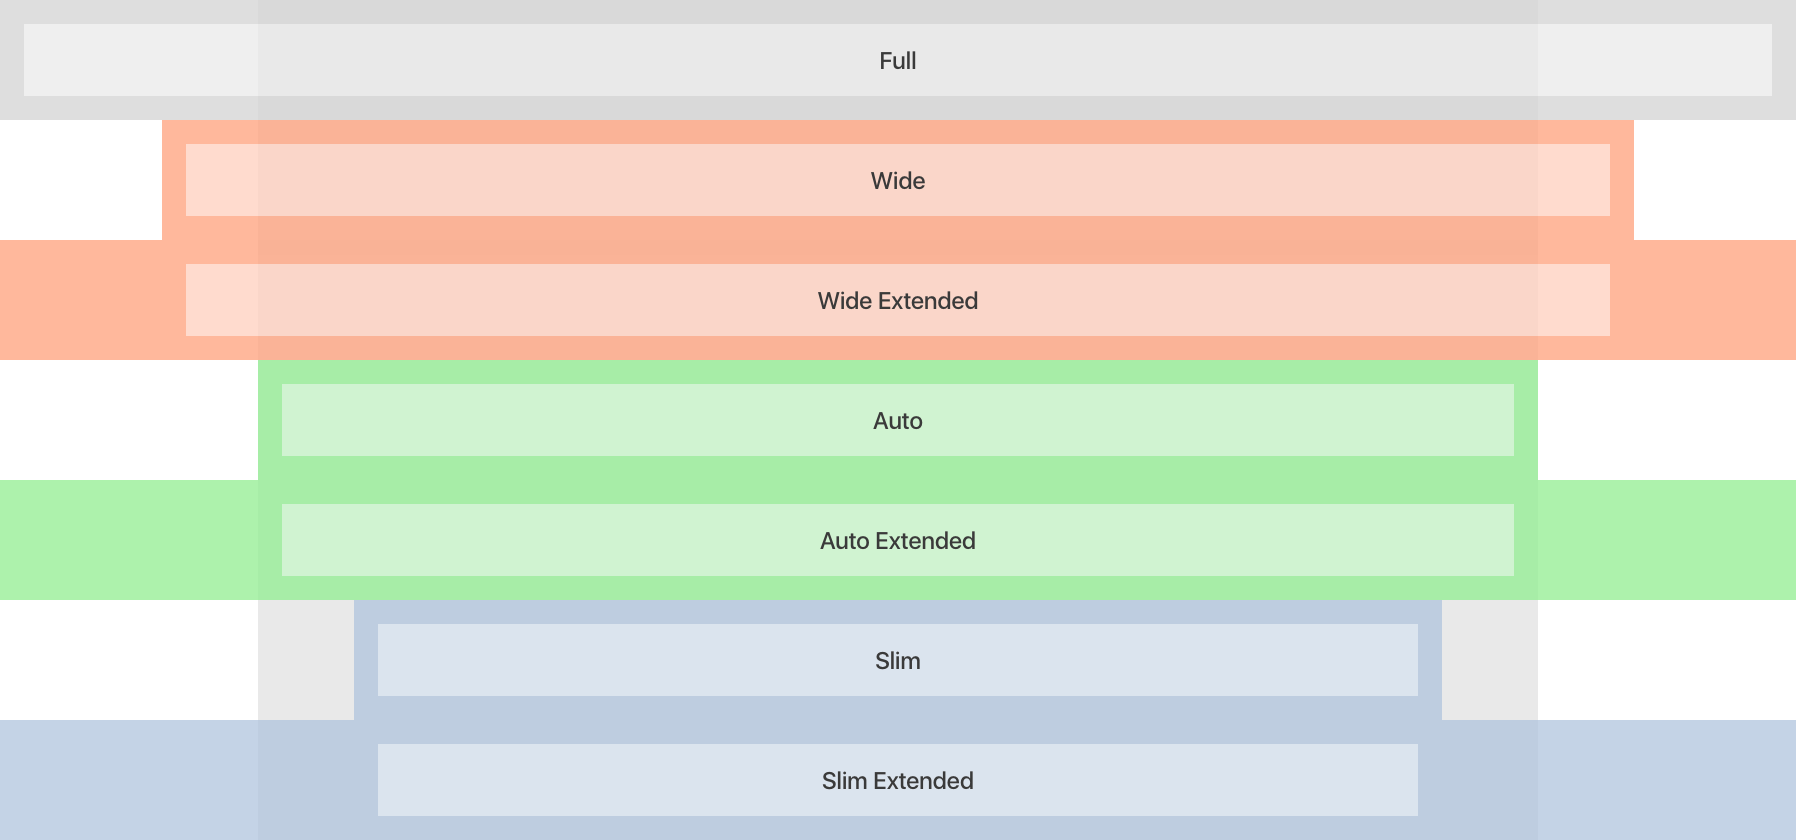
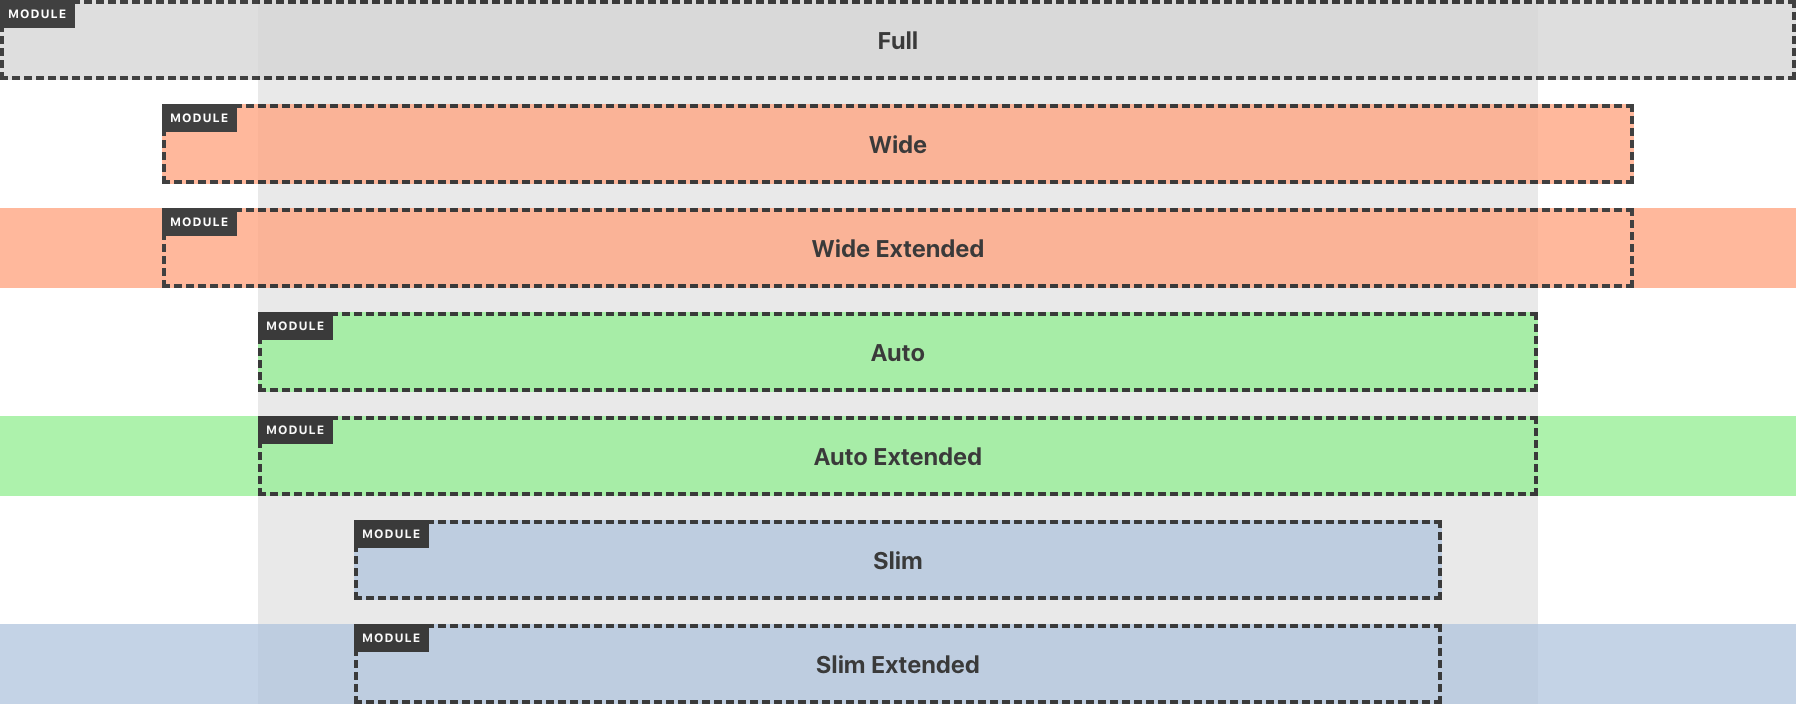
Remade screenshots

diff --git a/README.md b/README.md
@@ -55,7 +55,7 @@ This is a text field for specifying the ID of the module, which is necessary in 
 
 > Amount of additional top/bottom space outside/inside the module.
 
-This is a set of four dropdowns for selecting the spacing values (_Fig. 3, Fig. 4_).
+This is a set of four dropdowns for selecting the spacing values.
 
 | Option | Height (rem) | Height (px) |
 |:--- |:--- |:--- |
@@ -69,15 +69,25 @@ This is a set of four dropdowns for selecting the spacing values (_Fig. 3, Fig. 
 | `7` | 9rem | 144px |
 | `8` | 10.5rem | 168px |
 
-&nbsp;
+#### Outer Top Spacing
 
-![Module Outer Spacing Options](./screenshots/module-outer-spacing-options.png)
-_Fig. 3: Example outer spacing options._
+![Module Outer Spacing Options](./screenshots/module-outer-top-spacing-options.png)
+_Fig. 3: Example outer top spacing options._
 
-&nbsp;
+#### Outer Bottom Spacing
 
-![Module Inner Spacing Options](./screenshots/module-inner-spacing-options.png)
-_Fig. 4: Example inner spacing options._
+![Module Inner Spacing Options](./screenshots/module-outer-bottom-spacing-options.png)
+_Fig. 4: Example outer bottom spacing options._
+
+#### Inner Top Spacing
+
+![Module Inner Spacing Options](./screenshots/module-inner-top-spacing-options.png)
+_Fig. 5: Example inner top spacing options._
+
+#### Inner Bottom Spacing
+
+![Module Inner Spacing Options](./screenshots/module-inner-bottom-spacing-options.png)
+_Fig. 6: Example inner bottom spacing options._
 
 &nbsp;
 
@@ -85,7 +95,7 @@ _Fig. 4: Example inner spacing options._
 
 > Size of the module relative to the site container.
 
-This is a dropdown field for selecting a width setting (_Fig. 5_).
+This is a dropdown field for selecting a width setting (_Fig. 7_).
 
 | Option | Width |
 |:--- |:--- |
@@ -100,7 +110,7 @@ This is a dropdown field for selecting a width setting (_Fig. 5_).
 &nbsp;
 
 ![Module Width Options](./screenshots/module-width-options.png)
-_Fig. 5: Example width options._
+_Fig. 7: Example width options._
 
 &nbsp;
 
